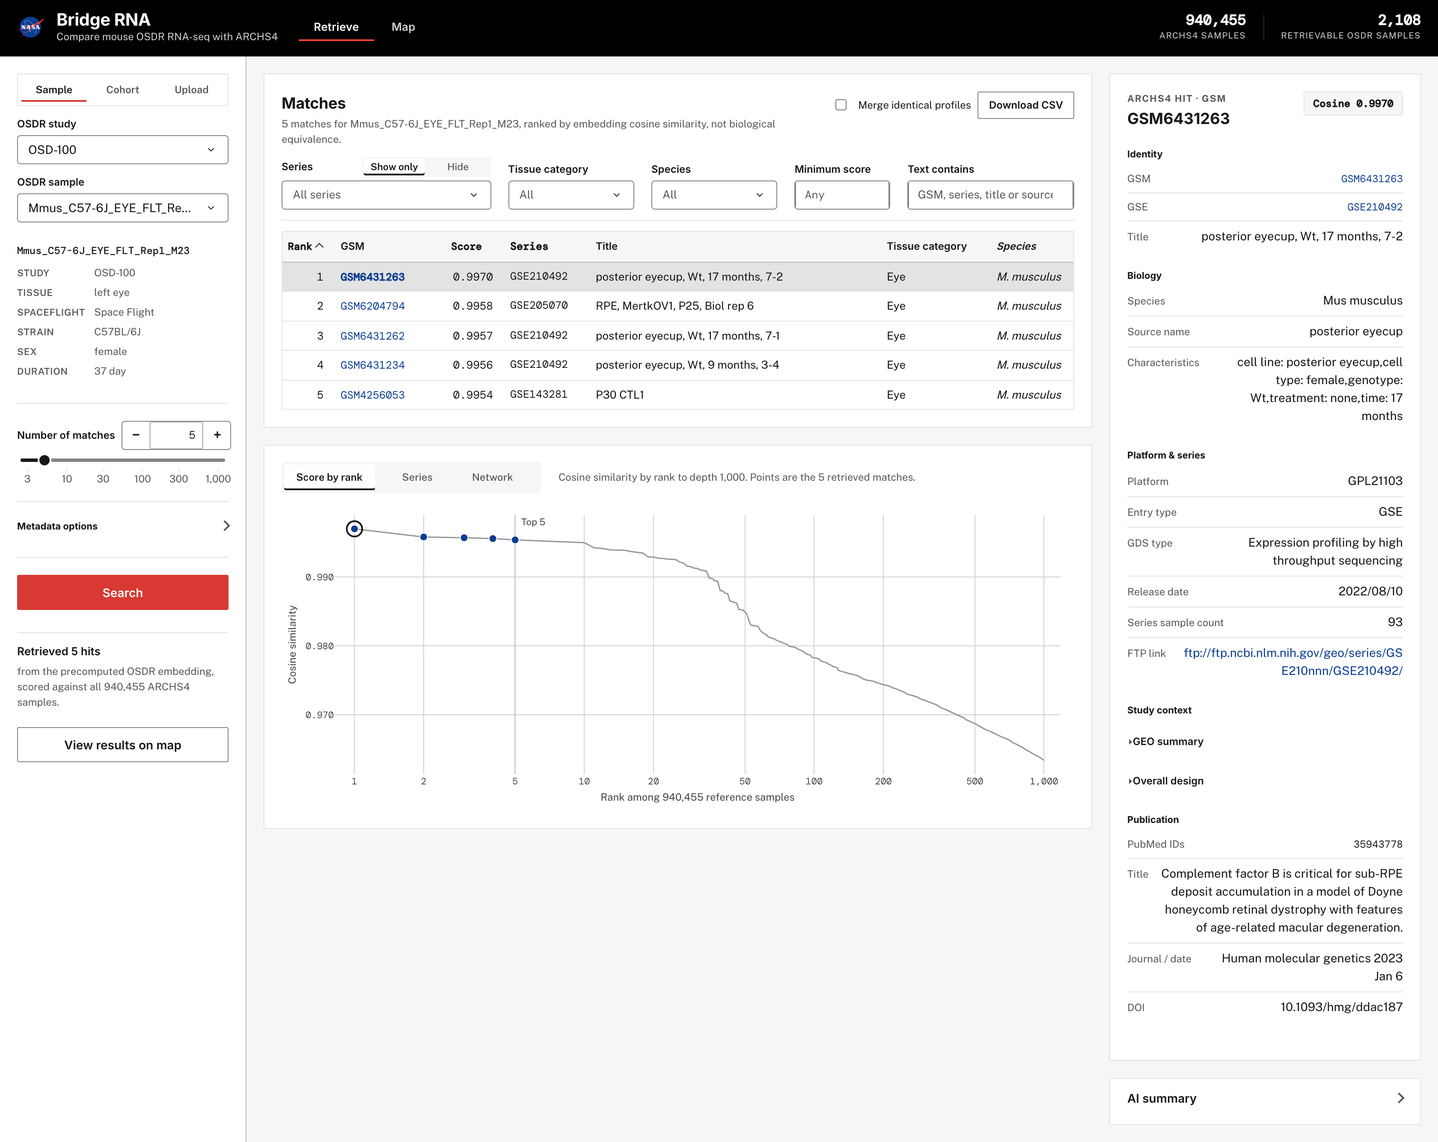
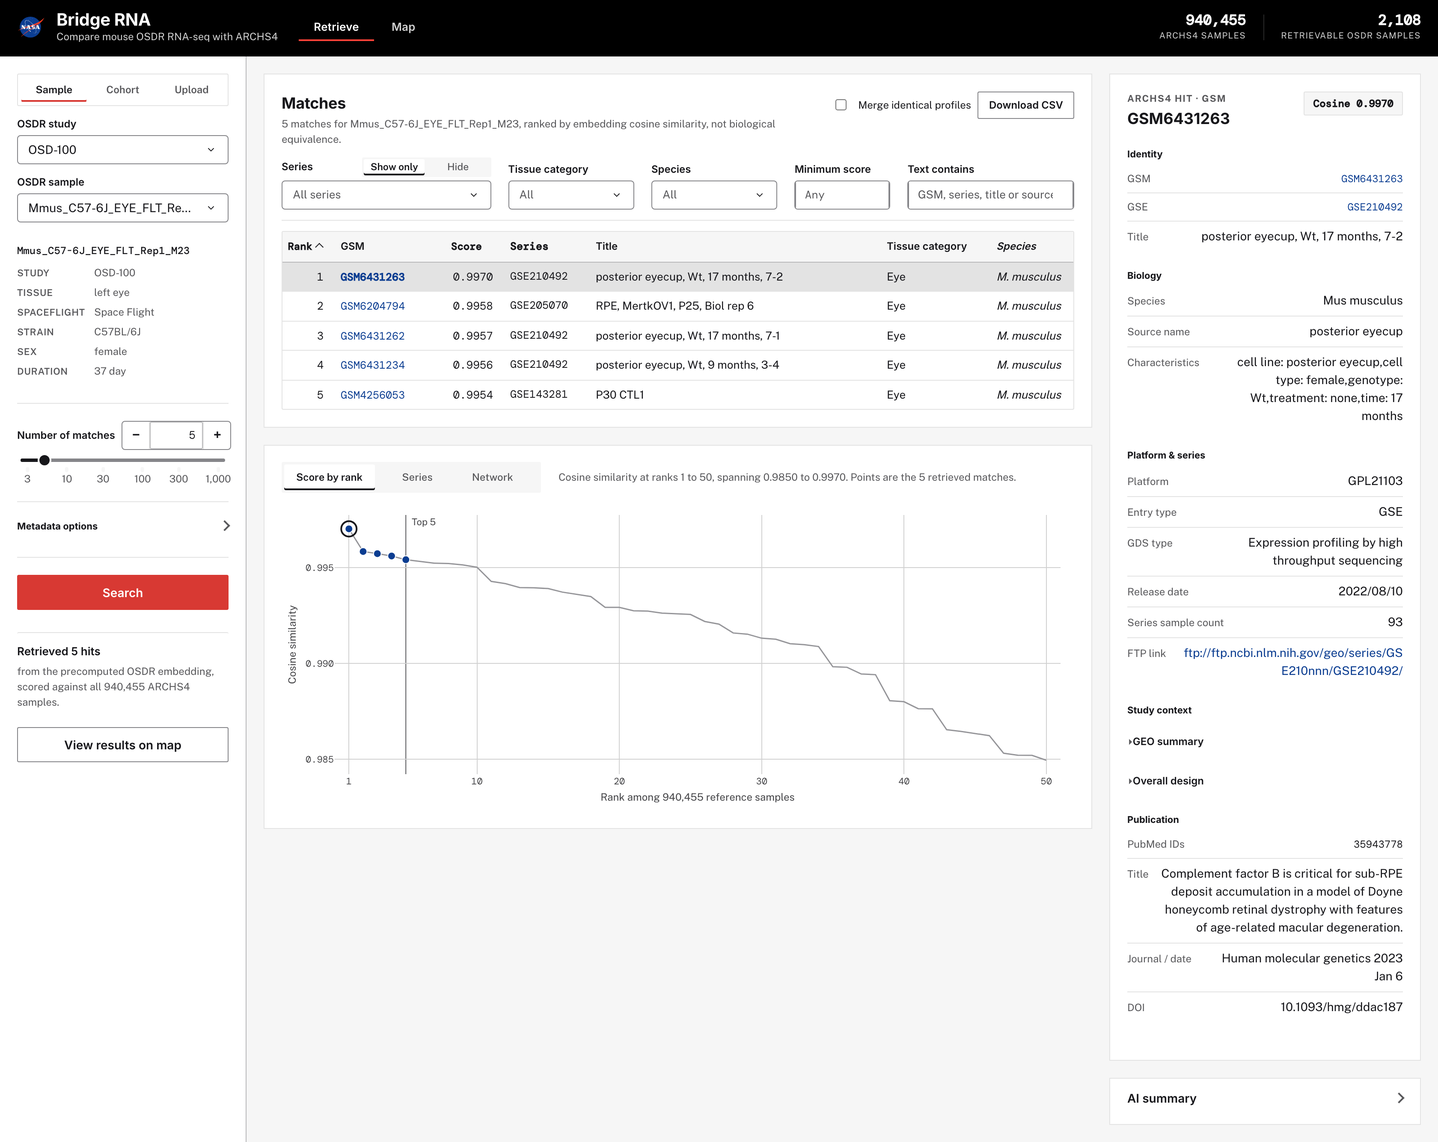
feat: score by rank on a linear axis; ship the results table
Joshua asked whether the log rank axis skewed Score by rank. It did:
over 12 real queries scores fall almost evenly with rank (r = -0.985), and
the log axis packed ranks 100 to 1,000, two thirds of the decline, into
its right third, drawing a steady fall as a plateau and a cliff. The axis
is now linear from rank 1 to ten times k (at least 50, at most 1,000), and
the caption states the score span the fitted y axis covers.

deploy/runtime-files.json never listed results.py, results_view.py,
result_plots.py, similarity.py or results-table.js, so a shipment of the
results table would have failed to import. They are listed, and a test
now fails if any app module or asset is left off.

804 pytest tests; 206 main and 57 results browser checks; README images
recaptured.

diff --git a/bridge_rna/result_plots.py b/bridge_rna/result_plots.py
@@ -3,9 +3,9 @@
 Two views draw the rows the results table currently shows (see
 docs/retrieval-results.md, "Plots" and "Contracts"):
 
-- `score_rank_figure`: the top-1,000 score profile on a log rank axis, with the
-  retrieved k marked on it. It answers whether the top k stands apart from the
-  ranks below it or sits on a flat curve.
+- `score_rank_figure`: the score profile on a linear rank axis from rank 1 to
+  ten times the retrieved k, with k marked on it. It answers whether the top k
+  stands apart from the ranks just below it or sits on a steady decline.
 - `series_figure`: matches per GEO series among the filtered rows.
 
 The third view, the network, is `figures.build_network_figure`, unchanged.
@@ -60,7 +60,17 @@ _SURFACE = GRAPH_THEME["paper_bg"]
 
 _NO_SERIES = "No series recorded"
 _TITLE_MAX = 80
-_LOG_TICKS = (1, 2, 5)
+_TICK_STEPS = (1, 2, 5)
+
+#: Score by rank shows ranks 1 to `SCORE_DEPTH_FACTOR` times k, never fewer
+#: than `SCORE_DEPTH_MIN` and never more than the profile carries (1,000).
+#: Linear, because a log rank axis bent a steady decline into a plateau and a
+#: cliff: measured over 12 queries, scores fall nearly evenly with rank
+#: (r = -0.985 against rank), and a log axis packed ranks 100 to 1,000, two
+#: thirds of the drop, into its right third. Ten times k keeps the matches a
+#: tenth of the width while still showing what lies past the cut.
+SCORE_DEPTH_FACTOR = 10
+SCORE_DEPTH_MIN = 50
 
 # Figure heights in px. Each view needs a height its marks can be read at, so
 # the figure states it and the panel's container should follow it rather than
@@ -175,15 +185,47 @@ def _visible_gsms(visible: Iterable[dict[str, Any]] | None) -> set[str]:
 
 # ------------------------------------------------------------- score by rank
 
-def _log_ticks(n: int) -> tuple[list[int], list[str]]:
-    vals: list[int] = []
-    decade = 1
-    while decade <= n:
-        vals += [m * decade for m in _LOG_TICKS if m * decade <= n]
-        decade *= 10
-    if vals and n / vals[-1] >= 1.2:
-        vals.append(n)
+def _rank_ticks(n: int) -> tuple[list[int], list[str]]:
+    """Rank 1, then round steps up to `n`, about five to eight ticks in all."""
+    step = 1
+    magnitude = 1
+    while True:
+        candidates = [m * magnitude for m in _TICK_STEPS]
+        fit = [c for c in candidates if n / c <= 8]
+        if fit:
+            step = fit[0]
+            break
+        magnitude *= 10
+    vals = [1] + [v for v in range(step, n + 1, step) if v > 1]
     return vals, [f"{v:,}" for v in vals]
+
+
+def score_window(results: dict[str, Any] | None) -> tuple[int, float, float]:
+    """(depth, lowest score, highest score) that score by rank draws.
+
+    Depth is ten times k, at least 50, at most the longest profile, and never
+    short of a retrieved row's rank. The score range covers the profile to that
+    depth and every retrieved row, so the caption can state the span the
+    fitted y axis stretches to fill the plot.
+    """
+    results = results or {}
+    rows = results.get("rows") or []
+    arms = ["a", "b"] if results.get("comparison") else ["a"]
+    k = int(results.get("k") or 0)
+    longest = max([len(results.get(f"profile_{arm}") or []) for arm in arms] + [0])
+    ranks = [int(r[f"rank_{arm}"]) for arm in arms for r in rows
+             if r.get(f"rank_{arm}") is not None]
+    depth = max(SCORE_DEPTH_MIN, SCORE_DEPTH_FACTOR * k)
+    if longest:
+        depth = min(depth, longest)
+    depth = max([depth, k, 2] + ranks)
+    ys = [float(y) for arm in arms
+          for y in (results.get(f"profile_{arm}") or [])[:depth]]
+    ys += [float(r[f"score_{arm}"]) for arm in arms for r in rows
+           if r.get(f"score_{arm}") is not None]
+    if not ys:
+        return depth, 0.0, 0.0
+    return depth, min(ys), max(ys)
 
 
 def _score_hover(row: dict[str, Any], arm: str, results: dict[str, Any],
@@ -214,14 +256,15 @@ def score_rank_figure(results: dict[str, Any] | None,
                       visible: list[dict[str, Any]] | None,
                       selected_gsm: str | None = None,
                       revision: str | None = None) -> go.Figure:
-    """Score by rank: the top-1,000 profile with the retrieved k marked on it.
+    """Score by rank: the score profile with the retrieved k marked on it.
 
     Scores at the top of a 940,455-sample index are flat (rank 1 near 0.997,
     rank 1,000 near 0.963), so the y axis is fitted to the data rather than
-    starting at 0, and x is a log rank axis so the first ten ranks get as much
-    width as the next ninety. Rows the filters keep are drawn in the match hue;
-    retrieved rows they hide stay on the curve, muted, because hiding a row
-    from the table does not change where it ranked.
+    starting at 0, and the caption states the span it covers. x is a linear
+    rank axis to `score_window`'s depth, so equal widths are equal numbers of
+    ranks and a real gap after a rank reads as a step. Rows the filters keep are
+    drawn in the match hue; retrieved rows they hide stay on the curve, muted,
+    because hiding a row from the table does not change where it ranked.
     """
     rows = (results or {}).get("rows") or []
     if not results or not rows:
@@ -238,14 +281,12 @@ def score_rank_figure(results: dict[str, Any] | None,
         "b": {"color": GRAPH_THEME["cohort_b"], "symbol": "square", "label": label_b},
     }
 
-    profiles = {arm: [float(s) for s in (results.get(f"profile_{arm}") or [])]
+    depth, lo, hi = score_window(results)
+    profiles = {arm: [float(s) for s in (results.get(f"profile_{arm}") or [])][:depth]
                 for arm in arms}
     ranked = {arm: [r for r in rows
                     if r.get(f"rank_{arm}") is not None and r.get(f"score_{arm}") is not None]
               for arm in arms}
-    depth = max([len(p) for p in profiles.values()]
-                + [int(r[f"rank_{arm}"]) for arm in arms for r in ranked[arm]]
-                + [k, 2])
     max_k = max([len(ranked[arm]) for arm in arms] + [k])
     size = 9 if max_k <= 60 else 7 if max_k <= 250 else 5
     # A surface ring keeps neighbouring markers apart until they are dense
@@ -309,12 +350,10 @@ def score_rank_figure(results: dict[str, Any] | None,
                 hoverinfo="skip", showlegend=False, cliponaxis=False,
                 meta={"role": "selection", "arm": arm}))
 
-    ys = [y for p in profiles.values() for y in p] + [
-        float(r[f"score_{arm}"]) for arm in arms for r in ranked[arm]]
-    lo, hi = min(ys), max(ys)
     span = hi - lo
     pad = span * 0.06 if span > 0 else max(abs(hi) * 1e-4, 1e-6)
-    tickvals, ticktext = _log_ticks(depth)
+    tickvals, ticktext = _rank_ticks(depth)
+    x_pad = max(depth * 0.02, 0.5)
 
     reference = results.get("reference_count")
     x_title = (f"Rank among {int(reference):,} reference samples"
@@ -322,27 +361,25 @@ def score_rank_figure(results: dict[str, Any] | None,
     legend = comparison or any_muted
     layout = _base_layout(revision or _revision(results), SCORE_HEIGHT, legend=legend)
     layout.update(
-        xaxis=_axis(type="log", range=[math.log10(0.82), math.log10(depth * 1.18)],
+        xaxis=_axis(type="linear", range=[1 - x_pad, depth + x_pad],
                     tickmode="array", tickvals=tickvals, ticktext=ticktext,
                     title={"text": x_title, "font": _font(12), "standoff": 8}),
         yaxis=_axis(range=[lo - pad, hi + pad],
                     tickformat=f".{_decimals(span)}f", nticks=6,
                     title={"text": "Cosine similarity", "font": _font(12), "standoff": 8}),
-        # Box zoom on the curve; panning a log axis by drag is easy to lose.
+        # Box zoom on the curve, to read a step at the cut more closely.
         dragmode="zoom",
     )
     fig.update_layout(**layout)
 
     if k >= 1:
         # A rule at k, labelled with k, so the reader can see where the result
-        # list ends and how the curve continues past it. On a log axis Plotly 6
-        # places a shape by data value but an annotation by log10 of it; both
-        # were checked in a rendered figure.
+        # list ends and how the curve continues past it.
         at_edge = k >= depth / 1.25
         fig.add_shape(type="line", xref="x", yref="paper",
                       x0=k, x1=k, y0=0, y1=1,
                       line={"color": _RULE, "width": 1}, layer="below")
-        fig.add_annotation(x=math.log10(k), y=1, xref="x", yref="paper",
+        fig.add_annotation(x=k, y=1, xref="x", yref="paper",
                            text=f"Top {k:,}", showarrow=False,
                            xanchor="right" if at_edge else "left",
                            xshift=-5 if at_edge else 5, yanchor="top",

diff --git a/tests/test_result_plots.py b/tests/test_result_plots.py
@@ -7,7 +7,6 @@ so a test here fails on the same thing a reader would see go wrong.
 from __future__ import annotations
 
 import json
-import math
 from pathlib import Path
 
 import numpy as np
@@ -97,29 +96,49 @@ def test_the_view_caps_are_the_documented_ones():
 
 # ------------------------------------------------------------- score by rank
 
-def test_score_figure_draws_the_profile_on_a_log_rank_axis():
+def test_score_figure_draws_the_profile_on_a_linear_rank_axis_to_ten_times_k():
+    """Linear since 2026-10-22: a log axis bent a steady decline into a
+    plateau and a cliff. The window is ten times k, so k=30 shows rank 300."""
     results = _single()
     fig = RP.score_rank_figure(results, results["rows"])
     data = _json(fig)
     xaxis = data["layout"]["xaxis"]
-    assert xaxis["type"] == "log"
+    assert xaxis["type"] == "linear"
     lo, hi = xaxis["range"]
-    assert 10 ** lo < 1 and 10 ** hi > 1000, "the axis must show rank 1 to rank 1,000"
+    assert lo < 1 and 300 < hi < 310, "rank 1 to ten times k"
+    assert xaxis["tickvals"][0] == 1 and xaxis["tickvals"][-1] == 300
     assert "940,455" in xaxis["title"]["text"]
     assert data["layout"]["yaxis"]["title"]["text"] == "Cosine similarity"
 
     (line,) = _traces(fig, "profile")
     assert line["mode"] == "lines"
-    assert line["x"][0] == 1 and line["x"][-1] == 1000 and len(line["y"]) == 1000
+    assert line["x"][0] == 1 and line["x"][-1] == 300 and len(line["y"]) == 300
     assert line["hoverinfo"] == "skip"
     assert "customdata" not in line
+
+
+@pytest.mark.parametrize("k, depth", [(3, 50), (5, 50), (30, 300), (100, 1000),
+                                      (500, 1000), (1000, 1000)])
+def test_the_window_is_ten_times_k_between_50_and_the_profile(k, depth):
+    assert RP.score_window(_single(k=k))[0] == depth
+
+
+def test_the_window_never_cuts_off_a_retrieved_row_or_overruns_a_short_profile():
+    short = _single(k=5, profile=_profile(n=20))
+    assert RP.score_window(short)[0] == 20
+    comp = _comparison(k=10)
+    assert RP.score_window(comp)[0] == 100
+    depth, lo, hi = RP.score_window(comp)
+    assert hi == pytest.approx(max(comp["profile_a"][0], comp["profile_b"][0]))
+    assert lo == pytest.approx(min(comp["profile_a"][99], comp["profile_b"][99]))
+    assert RP.score_window(None) == (RP.SCORE_DEPTH_MIN, 0.0, 0.0)
 
 
 def test_score_axis_is_fitted_to_flat_scores_not_anchored_at_zero():
     results = _single()
     fig = RP.score_rank_figure(results, results["rows"])
     lo, hi = _json(fig)["layout"]["yaxis"]["range"]
-    assert 0.95 < lo < min(results["profile_a"])
+    assert 0.95 < lo < min(results["profile_a"][:300])
     assert max(results["profile_a"]) < hi < 1.0
     # The span of the axis is a few hundredths, not the 0..1 of a cosine.
     assert hi - lo < 0.05
@@ -174,12 +193,10 @@ def test_the_k_rule_is_drawn_at_k_and_labelled_with_k():
     results = _single(k=30)
     layout = _json(RP.score_rank_figure(results, results["rows"]))["layout"]
     (rule,) = layout["shapes"]
-    # A shape on a log axis is placed by data value in Plotly 6 (verified in a
-    # rendered figure); the annotation by log10 of it.
     assert rule["x0"] == rule["x1"] == 30
     (label,) = layout["annotations"]
     assert label["text"] == "Top 30"
-    assert label["x"] == pytest.approx(math.log10(30))
+    assert label["x"] == 30
 
 
 def test_the_selected_row_is_ringed():

diff --git a/tests/test_deployment.py b/tests/test_deployment.py
@@ -31,6 +31,19 @@ def test_package_is_allowlisted_and_integrity_checked(tmp_path):
         common.verify_bundle(dest)
 
 
+def test_every_app_module_and_asset_is_shipped():
+    """The results table (results.py, results_view.py, result_plots.py,
+    similarity.py, results-table.js) was built without being added here, so a
+    shipment would have failed to import. Every module the serving app can load
+    and every stylesheet or script Dash serves from assets/ must be listed."""
+    root=Path(__file__).resolve().parents[1]
+    listed=set(json.loads((root/'deploy/runtime-files.json').read_text()))
+    wanted={str(p.relative_to(root)) for pattern in
+            ('bridge_rna/*.py','manifold/*.py','assets/*.css','assets/*.js')
+            for p in root.glob(pattern)}
+    assert wanted-listed==set()
+
+
 @pytest.mark.parametrize('path',['../bridge-rna-deploy', '/home/ubuntu/bridge-rna-deploy',
                                  '.ship/incoming/abc/../../../../escape'])
 def test_sftp_rejects_boundary_escape_before_requests(path):

diff --git a/tests/e2e_results_check.py b/tests/e2e_results_check.py
@@ -284,11 +284,12 @@ def run_checks(page, c: Checks, base: str, console_errors: list[str]) -> None:
 
     print("\n[plots]")
     layout = plot_layout(page)
-    c.ok(layout["xtype"] == "log", "score by rank is the default, on a log rank axis")
+    c.ok(layout["xtype"] == "linear", "score by rank is the default, on a linear rank axis")
     traces = plot_traces(page)
     c.ok(any(t["custom"] for t in traces), "its points are clickable")
     caption = page.locator("#plot-caption").inner_text()
-    c.ok("depth 1,000" in caption, f"caption states the depth: {caption!r}")
+    c.ok(bool(re.search(r"ranks 1 to 1,000, spanning 0\.\d{4} to 0\.\d{4}", caption)),
+         f"caption states the ranks and the score span: {caption!r}")
     switch = page.locator("#results-plot-kind label").all_inner_texts()
     c.ok([t.strip() for t in switch] == ["Score by rank", "Series", "Network"],
          f"the plot switch offers Score by rank, Series and Network only: {switch!r}")

diff --git a/tests/test_results_view.py b/tests/test_results_view.py
@@ -148,6 +148,13 @@ def test_empty_results_invite_the_active_mode():
     assert "cohort" in fig.to_json() and caption == "" and legend == ""
 
 
+def test_the_score_caption_states_the_ranks_and_the_score_span_it_draws():
+    """The y axis is fitted to the data, so the caption says how wide it is."""
+    results = _results([_row("GSM1", 1, 0.9), _row("GSM2", 2, 0.8)])
+    _fig, caption, _legend = V.build_plot("rank", results, results["rows"], None)
+    assert caption.startswith("Cosine similarity at ranks 1 to 3, spanning 0.7000 to 0.9000.")
+
+
 def test_a_filter_that_keeps_nothing_says_so_in_the_plot():
     results = _results([_row("GSM1", 1, 0.99)])
     fig, _caption, _legend = V.build_plot("rank", results, [], None)

diff --git a/bridge_rna/results_view.py b/bridge_rna/results_view.py
@@ -542,9 +542,9 @@ def build_plot(kind: str, results: dict | None, rows: list[dict],
         return fig, caption, legend
 
     k = int(results.get("k") or 0)
-    depth = len(results.get("profile_a") or [])
-    caption = (f"Cosine similarity by rank to depth {depth:,}. "
-               f"Points are the {k:,} retrieved matches"
+    depth, lo, hi = P.score_window(results)
+    caption = (f"Cosine similarity at ranks 1 to {depth:,}, spanning "
+               f"{lo:.4f} to {hi:.4f}. Points are the {k:,} retrieved matches"
                + ("; filtered-out matches are faded." if n < len(results["rows"]) else "."))
     return P.score_rank_figure(results, rows, selected_gsm), caption, ""
 

diff --git a/CLAUDE.md b/CLAUDE.md
@@ -20,7 +20,7 @@ reintroduce its panel, warnings, or payload. Executed membership remains a discl
 `app.py` is the single entry point and owns the header and the router.
 **The router must decline to repaint a route that is already on screen.** `serve_layout` paints the requested view server-side, but `dcc.Location` publishes `pathname` once it mounts and Dash reads that as a change, so `prevent_initial_call` alone let the router rebuild the view on every load. Rebuilding the retrieval view reads the OSDR catalog, so its response landed a few hundred milliseconds later, on top of whatever the user had done meanwhile - clicking Cohort on arrival opened the cohort panel and then closed it again, 6 times out of 6, while the click's own callback had returned the right answer. `route-store` records what was painted and `app.navigation_for` is the decision, split out so it is testable without Dash plumbing. There is no `app_osdr_dash.py` and no `app_manifold.py`; both were deleted when the two repositories merged on 2026-07-22, and the map's 19 commits are in this history.
 
-**Current state: built, run on the real corpus, and tested.** 795 tests pass in about a minute, plus 555 browser checks: 206 in `tests/e2e_check.py`, 186 in `tests/e2e_cohort_check.py`, 70 in `tests/e2e_upload_check.py`, 57 in `tests/e2e_results_check.py`, 33 in `tests/e2e_network_style.py`, and 3 in `tests/e2e_cleanup_check.py` (re-measured 2026-10-21 by running every suite; the cohort and results suites again on 2026-10-22).
+**Current state: built, run on the real corpus, and tested.** 804 tests pass in about a minute, plus 555 browser checks: 206 in `tests/e2e_check.py`, 186 in `tests/e2e_cohort_check.py`, 70 in `tests/e2e_upload_check.py`, 57 in `tests/e2e_results_check.py`, 33 in `tests/e2e_network_style.py`, and 3 in `tests/e2e_cleanup_check.py` (re-measured 2026-10-21 by running every suite; the cohort and results suites again on 2026-10-22).
 Each browser suite counts and prints what it actually ran, because the documented totals were hand-written and had drifted - and they drifted again, which is why these were re-measured by running every suite rather than by adding up the last recorded numbers.
 **The last two take a `--url` or `--port` and do not start their own server**, so they are the two that silently go unrun; both were stale when this was written.
 The ARCHS4 GEO metadata join is built (`cache/archs4_metadata.parquet`, 940,455 rows, 51,284 distinct GEO series), so the map colors by tissue across both corpora rather than by species alone.
@@ -421,7 +421,7 @@ Run the pipeline in this order; `fetch_archs4_meta.py` joins onto the identity t
 /Users/josh/Bridge-RNA/.venv/bin/python tests/check_join.py              # the join, on the real corpus
 /Users/josh/Bridge-RNA/.venv/bin/python app.py                          # http://127.0.0.1:8000
 
-/Users/josh/Bridge-RNA/.venv/bin/python -m pytest tests/ -q              # 795 tests, about a minute
+/Users/josh/Bridge-RNA/.venv/bin/python -m pytest tests/ -q              # 804 tests, about a minute
 /Users/josh/Bridge-RNA/.venv/bin/python tests/e2e_check.py               # 206 browser checks, about five minutes
 /Users/josh/Bridge-RNA/.venv/bin/python tests/e2e_upload_check.py        # 70 upload checks, about eight minutes
 /Users/josh/Bridge-RNA/.venv/bin/python tests/e2e_cohort_check.py        # 186 cohort checks, about five minutes

diff --git a/docs/retrieval-results.md b/docs/retrieval-results.md
@@ -151,7 +151,11 @@ Splitting the column evenly was built first and lost both ways: at 1,000 px tall
 
 A segmented control picks one of three views. Each draws only the rows the filters keep.
 
-1. **Score by rank** (default). The top-1,000 score profile as a line on a log rank axis, with the retrieved k as points: filtered rows emphasized and filtered-out rows muted.
+1. **Score by rank** (default). The score profile as a line on a linear rank axis from rank 1 to ten times k (at least 50, at most 1,000), with the retrieved k as points: filtered rows emphasized and filtered-out rows muted.
+   The y axis is fitted to the data, so the caption states the score span it covers.
+   Until 2026-10-22 it was the whole top-1,000 profile on a log rank axis; Joshua asked whether that skewed it, and it did.
+   Over 12 real queries scores fall almost evenly with rank (r = -0.985 against rank, -0.94 against log rank), and only 32% of the drop from rank 1 to rank 1,000 happens by rank 100, so a log axis packed two thirds of the decline into its right third and drew a steady decline as a plateau and a cliff.
+   A linear axis over all 1,000 ranks would squeeze 5 matches into 0.5% of the width; ten times k keeps them a tenth of it while still showing what lies past the cut, and a real gap after a rank (OSD-426 drops 0.002 between ranks 12 and 13, 650 times a typical step) reads as a step.
    A comparison draws both cohorts' curves in their established cohort hues.
 2. **Series**. Rows per GSE among the filtered rows, for the top 20 series by count, ordered by best rank.
    A comparison splits each bar by retrieved-by.
@@ -289,3 +293,4 @@ Each step ends green on pytest and is committed on its own.
 - 2026-10-21: spec written from the interview and the measurements above.
 - 2026-10-21: built. Retrieval profile and tie rule; `results.py`, `result_plots.py` and the tissue fix built in parallel by subagents against the contracts above; the view, callbacks, styles and browser suite integrated and verified here.
 - 2026-10-22: Similarity view removed at Joshua's request after review; the plot switch is Score by rank, Series and Network.
+- 2026-10-22: Score by rank moved from a log rank axis over 1,000 ranks to a linear one over ten times k, with the score span in the caption.

diff --git a/progress.md b/progress.md
@@ -23,10 +23,13 @@ Comparisons are offered between arms only.
 Result: 204 cohorts across 70 studies (median 10, max 38) grouping 2,107 of 2,108 samples.
 The full `validate_cohorts.py` sweep passes all six checks: top-5 stability 0.747 against 0.158 for single samples, 4.7x; the size knee is still 5.
 
-Validation: 795 pytest tests, 186 cohort and 57 results browser checks, and both README images recaptured.
+Validation: 804 pytest tests, 206 main, 186 cohort and 57 results browser checks, and both README images recaptured.
 The other four browser suites were not rerun; nothing they exercise changed.
 
-**He asked whether the log rank axis skews the Score by rank plot.** It does, in a specific way; the answer and a recommendation went back to him, and nothing changed in code yet.
+**He asked whether the log rank axis skews the Score by rank plot.** It did: scores fall almost evenly with rank, and the log axis packed two thirds of the decline into its right third, drawing a plateau and a cliff that are not there.
+With his approval Score by rank is now a linear rank axis from 1 to ten times k (at least 50, at most 1,000), and the caption states the score span the fitted y axis covers.
+
+**The ship allowlist was missing the whole results table.** `deploy/runtime-files.json` did not list `results.py`, `results_view.py`, `result_plots.py`, `similarity.py` or `assets/results-table.js`, so a shipment of this branch would have failed to import. They are listed now, and `test_every_app_module_and_asset_is_shipped` fails if a module or asset is ever left off again.
 
 ## 2026-10-21 (the retrieval result is a ranked table, not a network)
 
